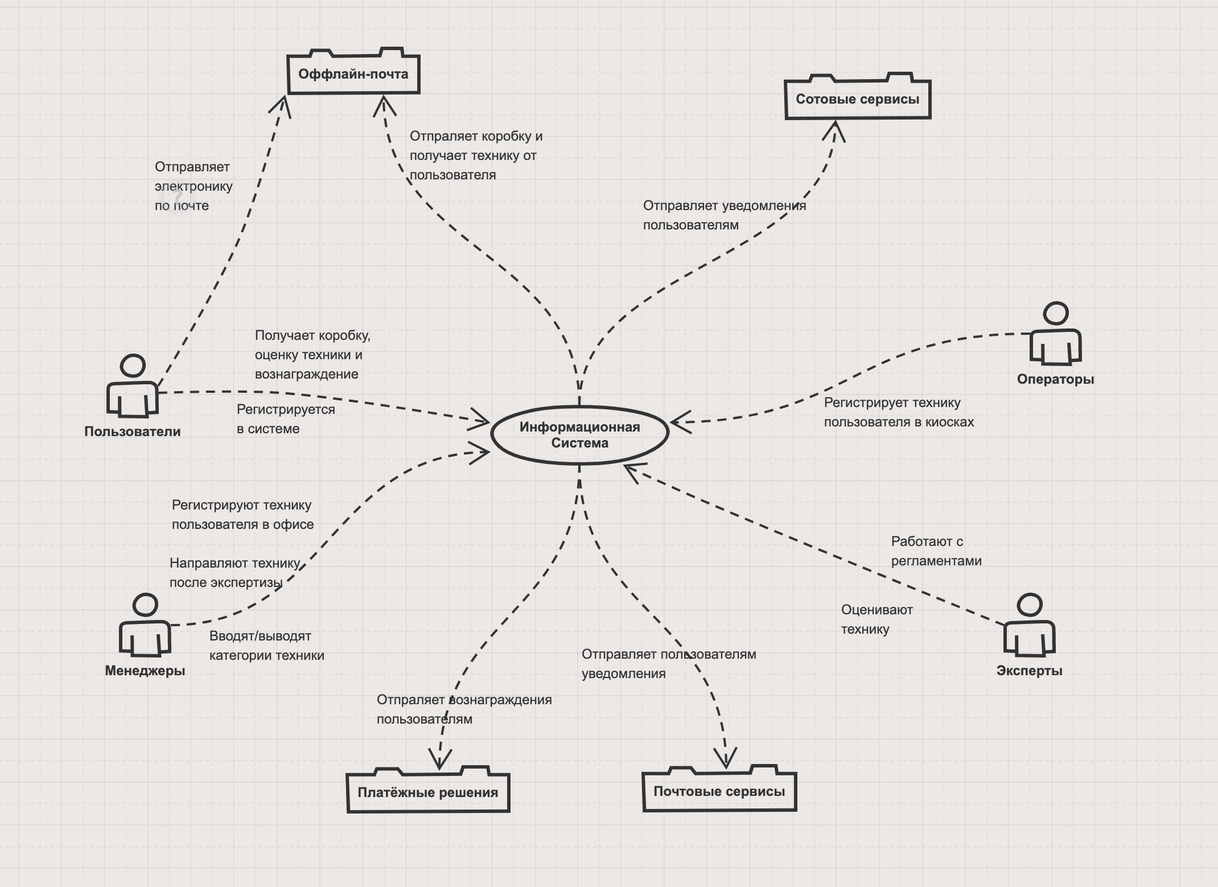
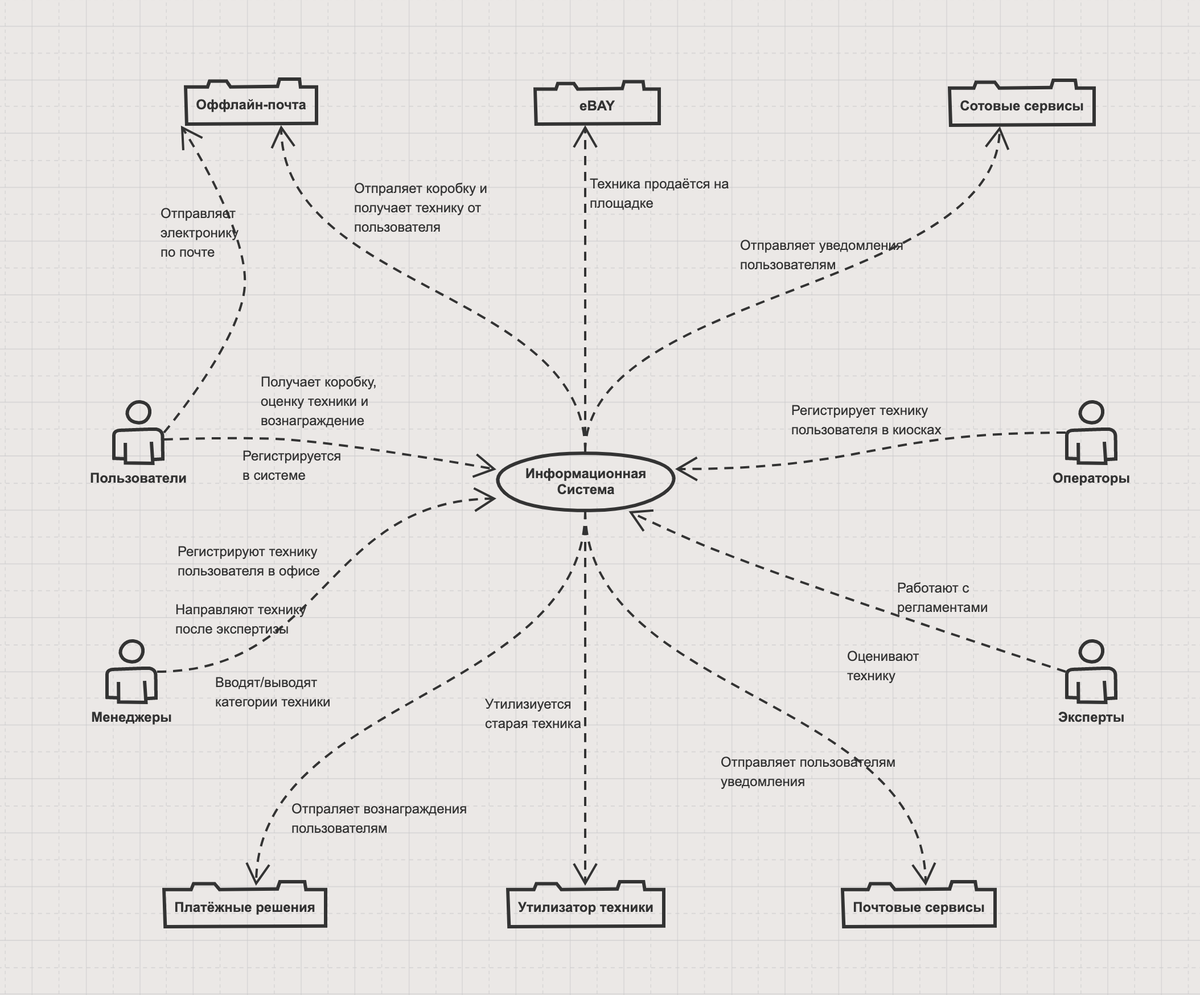
Дополнил решение

diff --git a/softwarearchitect/1-architectural-kata/going-green.md b/softwarearchitect/1-architectural-kata/going-green.md
@@ -1,11 +1,3 @@
-The remain plan:
-- Сверить по презам:
-  - Бизнес цель
-  - Бизнес драйверы
-  - Базовые характеристики
-  - Критичные характеристики
-- Дописать архитектурные альтернативы
-
 # Architectural Kata
 
 ## Описание
@@ -40,90 +32,139 @@ Hundreds, hopefully thousands to millions
 
 ### Бизнес-цель
 
-Реализовать информационную систему, которая позволить принимать старую электронику от пользователей и утилизировать/перепродавать ёё с прибылью
+Реализовать информационную систему, которая позволить работать с б/у техникой пользователей эффективным с точки зрения бизнеса способом (принимать старую электронику от пользователей и утилизировать/перепродавать ёё с прибылью). Эффективность будет достигаться за счёт:
+* внутренней информационной системы - позволит максимально оптимизировать обработку пользовательких заявок
+* внешнего клиентского приложения - позволит максимально расширить охват пользователей
 
 ### Бизнес-драйверы
 
-1. Зайти в новую для нас область и занять долю рынка
+1. Зайти в новую для нас область и занять долю высококонкурентного рынка
 2. Получить прибыльный бизнес
-3. Озеленить планету
+3. Быть очень гибкими - постоянное добавление/удаление доступных категорий техники
+4. Озеленить планету
 
 ### Стейкхолдеры
 
-1. **Пользователи** - сдают электронику и получают вознаграждение
+1. **Пользователи** - сдают электронику и получают вознаграждение.
 2. **Эксперты** - проверяют электронику и дают заключение (продать или сдать в переработку)
 3. **Менеджеры** - принимают заказы от Пользователей в офисе, направляют технику после заключения от Экспертов, отправляет вознаграждения Пользователям
 4. **Оператор** - принимает заказы от Пользователей в киоске
 
 ### Базовые сценарии
 
-Далее **ИС** - это наша реализуемая информационная система
+Далее **ВИС** - это наша реализуемая внутренняя информационная система. С ней работают Эксперты, Менеджеры и Операторы.
+Далее **КП** - это клиентское мобильное приложение или клиентский раздел сайта системы.
 
-Далее **КП** - это клиентское мобильное приложение или клиентский раздел сайта системы
-
-**UC1: Регистрация Пользователя**
+**UC_1: Регистрация Пользователя через КП**
 1. Пользователь открывает КП
-2. Пользователь регистрирует в ИС свой почтовый адрес и платёжные реквизиты
+2. Пользователь регистрирует в ИС свой почтовый адрес и карточку (для получения оплаты)
 
-**UC2: Пользователь отправляет технику по почте**
-1. Пользователь находит у себя ненужную технику
-2. Пользователь отправляет запрос на приём техники через КП и получает предварительную оценку
-3. Менеджер заводит для каждого экземпляра техники тикет в ИС
-4. Менеджер отправляет Пользователю коробку для техники
-5. Пользователь отправляет коробку с техникой Менеджеру
-6. Менеджер отмечает получение техники в ИС и передаёт технику Эксперту
-7. Эксперт делает заключение (на основании регламентов из ИС), отмечает результат в тикете и отдаёт технику Менеджеру
-8. Пользователю приходит финальная оценка его техники
-9. Менеджер отправляет технику по назначению
-10. Менеджер отправляет вознаграждение Пользователю и закрывает тикет в ИС
+**UC_2: Регистрация Пользователя через киоск**
+1. Пользователь обращается в киоск
+2. Оператор регистрирует пользователя и заносит его адрес/платёжные реквизиты для отправки чека
 
-**UC3: Пользователь отправляет технику через киоск**
-1. Пользователь находит у себя ненужную технику
-2. Пользователь находит в КП ближайший киоск
-3. Оператор при обращении Пользователя заводит для каждого экземпляра техники тикет в ИС
-4. Оператор даёт Пользователю предварительную оценку и коробку для техники
-5. Пользователь отправляет коробку с техникой Менеджеру
-6. Менеджер отмечает получение техники в ИС и передаёт технику Эксперту
-7. Эксперт делает заключение (на основании регламентов из ИС), отмечает результат в тикете и отдаёт технику Менеджеру
-8. Пользователю приходит финальная оценка его техники
-9.  Менеджер отправляет технику по назначению
-10. Менеджер отправляет вознаграждение Пользователю и закрывает тикет в ИС
+**UC_3: Пользователь запрашивает оценку через КП**
+1. Пользователь отправляет запрос на оценку техники через КП
+2. Пользователь получает предварительную оценку
 
-**UC4: Пользователь просматривает список своей техники**
+**UC_4: Пользователь запрашивает оценку через киоск**
+1. Пользователь запрашивает у оператора предварительную оценку
+2. Оператор делает запрос в ВИС и озвучивает итог пользователю
+
+**UC_5: ВИС делает предварительную оценку техники**
+1. В ВИС поступает запрос на оценку техники (указаны тип техники и важные характеристики в зависимости от типа)
+2. ВИС на основе каталого оценок отвечает предварительной оценкой
+
+**UC_6: Пользователь запрашивает коробку через КП**
+1. Пользователь отправляет запрос на отправку техники через КП
+2. В ВИС создаётся заявка со статусом "Отправка коробки пользователю"
+
+**UC_7: Пользователь запрашивает коробку через киоск**
+1. Пользователь заявляет оператору о своём желании отправить технику
+2. Оператор в ВИС создаёт заявку со статусом "Отправка коробки пользователю"
+
+**UC_8: Менеджер отправляет коробку пользователю**
+1. Менеджер берёт самую старую заявку в очереди со статусом "Отправка коробки пользователю"
+2. Менеджер получает из ВИС адрес пользователя
+3. Менеджер отправляет коробку по адресу
+4. Менеджер меняет статус заявки на "Получение от пользователя"
+
+**UC_9: Пользователь отправляет технику по почте**
+1. Пользователь укладывает технику в полученную коробку
+2. Пользователь отправляет коробку с техникой Менеджеру
+
+**UC_10: Менеджер принимает технику по почте**
+1. Менеджер получает технику на почте
+2. Менеджер помечает заявку как "Готово к проверке"
+
+**UC_11: Эксперт проверяет технику**
+1. Эксперт берёт самую старую заявку в очереди со статусом "Готово к проверке"
+2. Эксперт проверяет и оценивает технику пользуясь внутренними регламентами
+3. Эксперт выставялет оценку техники - сумму, которая будет отправлена пользователю
+4. Эксперт выставляет статус заявки - "Продать/Утилизировать"
+
+**UC_12: Менеджер отправляет технику на утилизацию**
+1. Менеджер берёт самую старую заявку в очереди со статусом "Утилизировать"
+2. Менеджер отправляет технику партнеру-утилизатору
+3. Менеджер меняет статус заявки на "Готово к выплате"
+
+**UC_13: Менеджер выставляет технику на перепродажу**
+1. Менеджер берёт самую старую заявку в очереди со статусом "Продать"
+2. Менеджер продаёт технику на eBay
+3. Менеджер меняет статус заявки на "Готово к выплате"
+
+**UC_14: Менеджер отправляет пользователю оплату**
+1. Менеджер берёт самую старую заявку в очереди со статусом "Готово к выплате"
+2. Менеджер отправляет клиенту сумму указанную в заявке Экспертом
+3. Менеджер меняет статус заявки на "Закрыто"
+
+**UC_15: Пользователь просматривает список своей техники**
 1. Пользователь заходит в КП
 2. Пользователь видит список отправленной техники с актуальными статусами
 
-**UC5: Менеджер выводит из обращения неиспользуемые категории электроники**
-1. Менеджер регулярно (раз в месяц) делает выборку в ИС по категориям принимаемой электроники
+**UC_16: Менеджер выводит из обращения неиспользуемые категории электроники**
+1. Менеджер регулярно (раз в месяц) делает выборку в ВИС по категориям принимаемой электроники
 2. Те категории, которые не были использованы - удаляются (после ручной модерации)
 
-**UC6: Менеджер добавляет в систему новые категории электроники**
-1. Менеджер (на основании анализа рынка) находит востребованные, но не представленные в ИС, категории электроники
+**UC_17: Менеджер добавляет в систему новые категории электроники**
+1. Менеджер (на основании анализа рынка) находит востребованные, но не представленные в ВИС, категории электроники
 2. Менеджер обеспечивает наличие экспертов по данному виду техники
-3. Менеджер вместе с Экспертами готовят и загружают в ИС регламенты работы с новой категорией техники
-4. Менеджер добавляет новые категории в ИС
+3. Менеджер вместе с Экспертами готовят и загружают в ВИС регламенты работы с новой категорией техники
+4. Менеджер добавляет новые категории в ВИС
 
-### Базовые характеристики
+### Базовые атрибуты качества
 
-1. Пользовательская техника не теряется
-2. Пользовательские обращения имеют определённый статус
-3. КП доступно пользователю в 99.9
-4. ИС масштабируется
-5. Процессы масштабируются
-6. ТТМ
-7. Стоимость
+* ВИС и КП должны быть готовы с масштабированию до миллинов пользователей (и десятком миллионов заявок)
+* КП должно быть высокодоступным, чтобы клиент всегда мого оформить новую заявку и узнать статус текущих,
+* ВИС должна быть высокодоступной, чтобы не было простоев бизнеса
+* время отклика КП < 2c при открытии страницы
+* время поиска в регламентах в ВИС - несколько секунд
+* время обновления заявки Пользователя < 2c
+* удаление/добавление новых категорий не должно занимать много времени
+* скорость запуска - мы хотим как можно быстрее зайти на рынок
+* стоимость запуска - мы хотим минимизировать первоначальные вложения
 
 ### Критические сценарии
 
-Критичными сценариями являются сценарии UC1 и UC2. Их достаточно для завершения бизнес-операции. Для обратной связи с пользователем вместо UC4 мы можем уведомлять его по SMS или по email.
+1. Регистрация Пользователя через КП
+2. Пользователь запрашивает оценку через КП
+3. ВИС делает предварительную оценку техники
+4. Пользователь запрашивает коробку через КП
+5. Менеджер отправляет коробку пользователю
+6. Пользователь отправляет технику по почте
+7. Менеджер принимает технику по почте
+8. Эксперт проверяет технику
+9. Менеджер отправляет технику на утилизацию
+10. Менеджер выставляет технику на перепродажу
+11. Менеджер отправляет пользователю оплату
 
 ### Критические характеристики
 
-1. Пользовательская техника не теряется
-2. Пользовательские обращения имеют определённый статус
-3. КП доступно пользователю в 99.9
-4. ТТМ
-5. Стоимость
+1. ВИС и КП должны быть готовы с масштабированию до миллинов пользователей (и десятком миллионов заявок)
+2. скорость запуска - мы хотим как можно быстрее зайти на рынок
+3. стоимость запуска - мы хотим минимизировать первоначальные вложения
+
+**Примечание.** Я включаю первый пункт в критичные характеристики, поскольку бизнес ожидает взрывного роста пользователей - у каждого ведь есть старая/ненужная техника и если провести удачный маркетинг - идея должна "выстрелить".
 
 ### Контекстная схема системы
 
@@ -136,10 +177,49 @@ Hundreds, hopefully thousands to millions
    2. Настройка готового решения займёт меньше времени, так как будет работать поддержка вендора (П2)
    3. Нанять и обучить сотрудников под существующее популярное решение будет проще (П3)
    4. Система может быть неприспособленной к нашим UC5 и UC6. Требуется дополнительный анализ (Риск 1)
-   5. Система может быть неготовой к нашим нагрузкам. Требуется дополнительный анализ (Р2)
+   5. Система может быть неготовой к нашим нагрузкам и к дальнейшему масштабированию. Требуется дополнительный анализ (Р2)
 2. Реализовать собственную информационную систему. При этом:
-   1. Разработка системы займёт гораздо больше времени (Р3)
-   2. Разработка системы потребует гораздо больших вложения на старте бизнеса (Р4)
+   1. Разработка системы займёт больше времени (Р3)
+   2. Разработка системы потребует больших вложения на старте бизнеса (Р4)
    3. Собственная система позволит гибко и относительно быстро подстраиваться под требования бизнеса (П4)
 
+### Принятие архитектурного решения
 
+Исходя из целей бизнеса и критических характеристик, было принято решение двигаться по второму сценарию (реализация собственной информациооной системы).
+Выполнение 2й критичной характеристики будет достигаться за счёт реализации только критичных сценариев. Выполнение 3й критичной характеристики будет достигаться за счёт отсутствия киосков в моллах на первом этапе и отсутствия Операторов. Их роль в офисах будут выполнять Менеджеры.
+
+### Идеи реализации
+
+Реализовывал бы по SOA/микросервисам. Пользовался бы облаками с их Managed Service-ами. Разбивал мы сервисы по subdomains. Разбиение вижу следующее:
+1. Сервис пользователей
+   1. Хранит информацию о пользователях
+   2. Карточки храним не у себя (чтобы не заморачиваться с PCI DSS), а используем сторонние сервисы, например Stripe
+   3. Нагрузка по запросам - средняя (преимущественно чтение). Сервис будет принимать запросы на запись при регистрации пользователя и на чтение при работе с заявками пользователей.
+   4. Объем данных - средний. Миллионы карточек пользователей.
+   5. Хранилище - выбрал бы MongoDB, поскольку требований к строгой consistency нет, достаточно eventual и внутри сервиса не требуется большое количество JOIN-ов
+2. Сервис предварительной оценки
+   1. Хранит разные каталоги и справочники по технике для оценки.
+   2. Нагрузка по запросам - высокая (преимущественно чтение) - вызывается при каждой заявке и не только (не все оценки приводят к заявкам).
+   3. Объем данных - небольшой. Ожидаю в 10-ки ГБ (максимум и с запасом).
+   4. Хранилище - в виду специфики хранимых данных, я бы выбрал что-нибудь релиацинное с быстрыми JOIN-ами и индексацией. Типа PostgreSQL.
+3. Сервис заявок пользователей
+   1. Самый нагруженный сервис. Хранит заявки пользователей и переключает их состояния.
+   2. Нагрузка по запросам - высокая (чтение и запись).
+   3. Объём данных - высокий. Это основное хранилище системы и ожидаю объём данных 10ки (со временем) ПБ (10_000_000 пользователей * 100 единиц техники * 100 КБ - верхняя оценка пользователй * сколько за всю жизнь отдадут техники * размер заявки в базе)
+   4. Хранилище - смотрел бы в сторону strong consistency c гарантиями ACID. Например, CockroachDB или YDB у Яндекса
+4. Сервис категорий техники
+   1. Хранит категории техники.
+   2. Нагрузка по запросам - высокая (преимущественно чтение).
+   3. Объем данных - небольшой
+   4. Выбрал бы что удобно команде. Если начнём тормозить - выкинем и перепишем исходя из новых вводных.
+5. Сервис экспертных регламентов
+   1. Хранит в себе правила, инструкции и регламенты работы с техникой для экспертов. Используется полнотекстовый поиск.
+   2. Использовал бы что-нибудь стандартное для внутренних knowledge base.
+6. Сервис аналитики
+   1. Должен научиться автоматически строить отчёты/аналитику по используемым категориям техники и заявкам
+   2. В начале может пользоваться существующими сервисами, но в будущем возможно потребуется делать свой data-lake / dwh
+7. ВFF + фронт для КП
+   1. Что-нибудь стандартное вида - NestJS + NextJs + React.
+8. Админка
+   1. Содержит в себе BFF для фронта
+   2. Релизует в себе различные внутренние use cases, при исполнении которых потребуется работа с остальными сервисами
